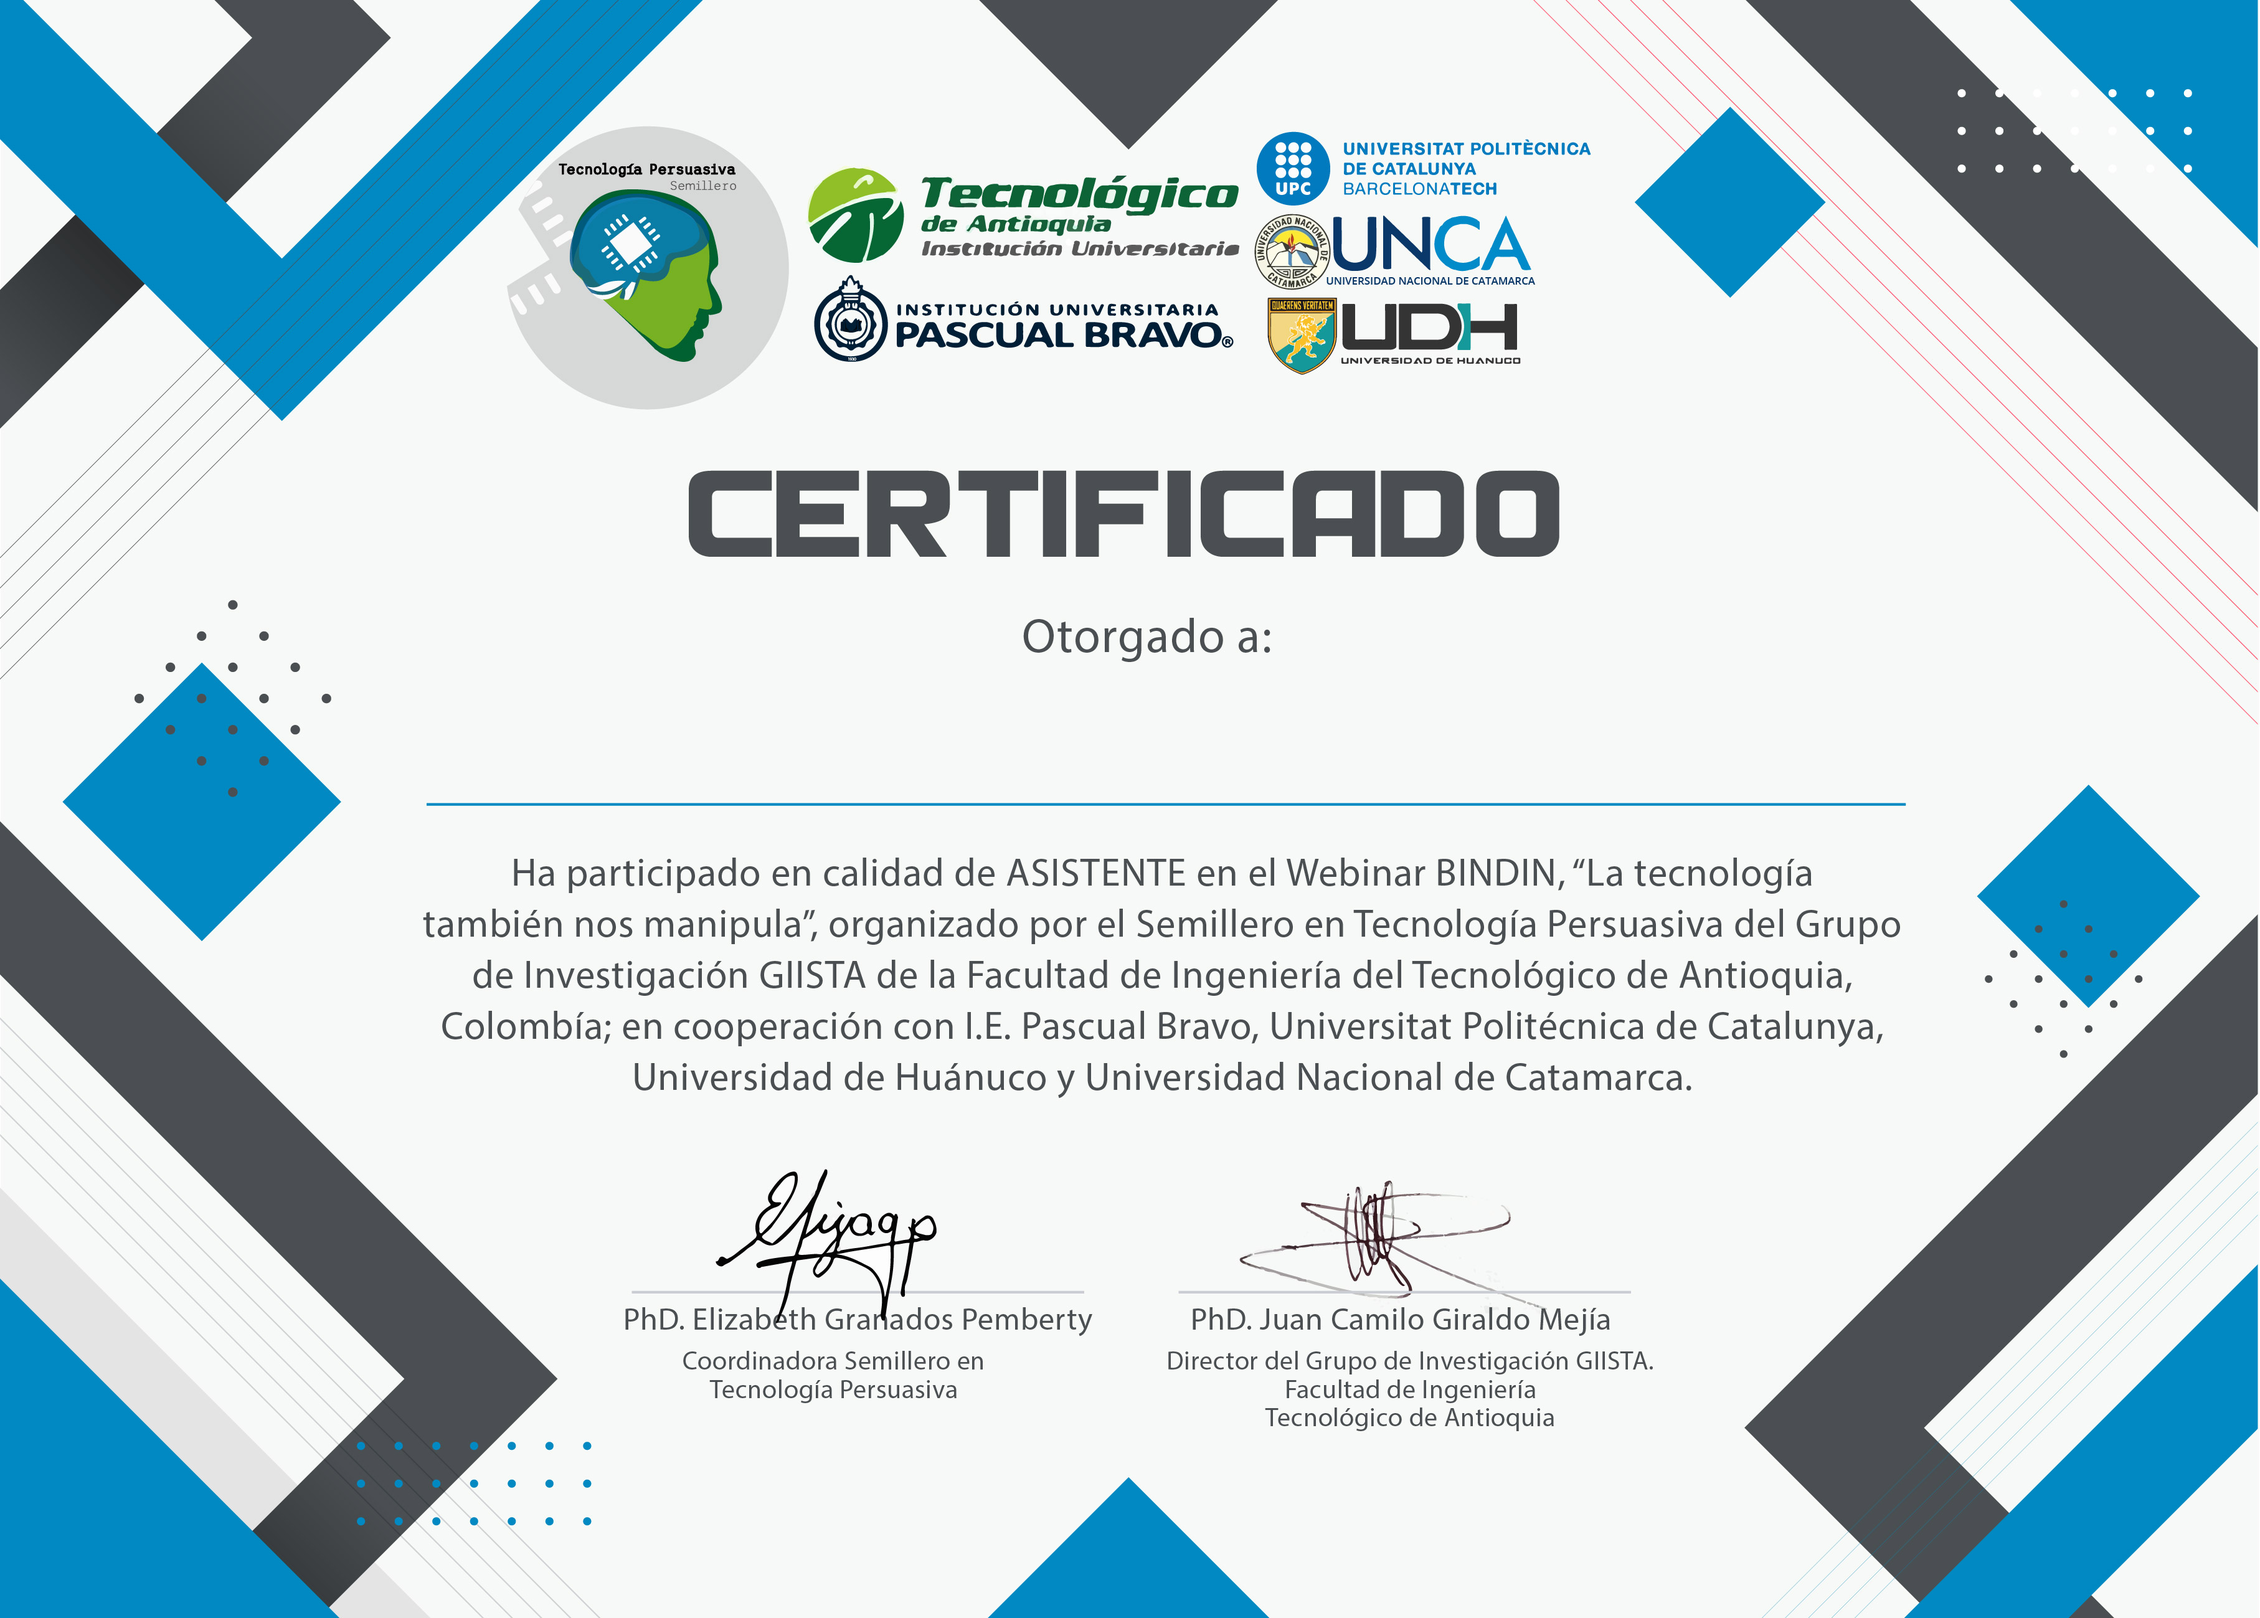
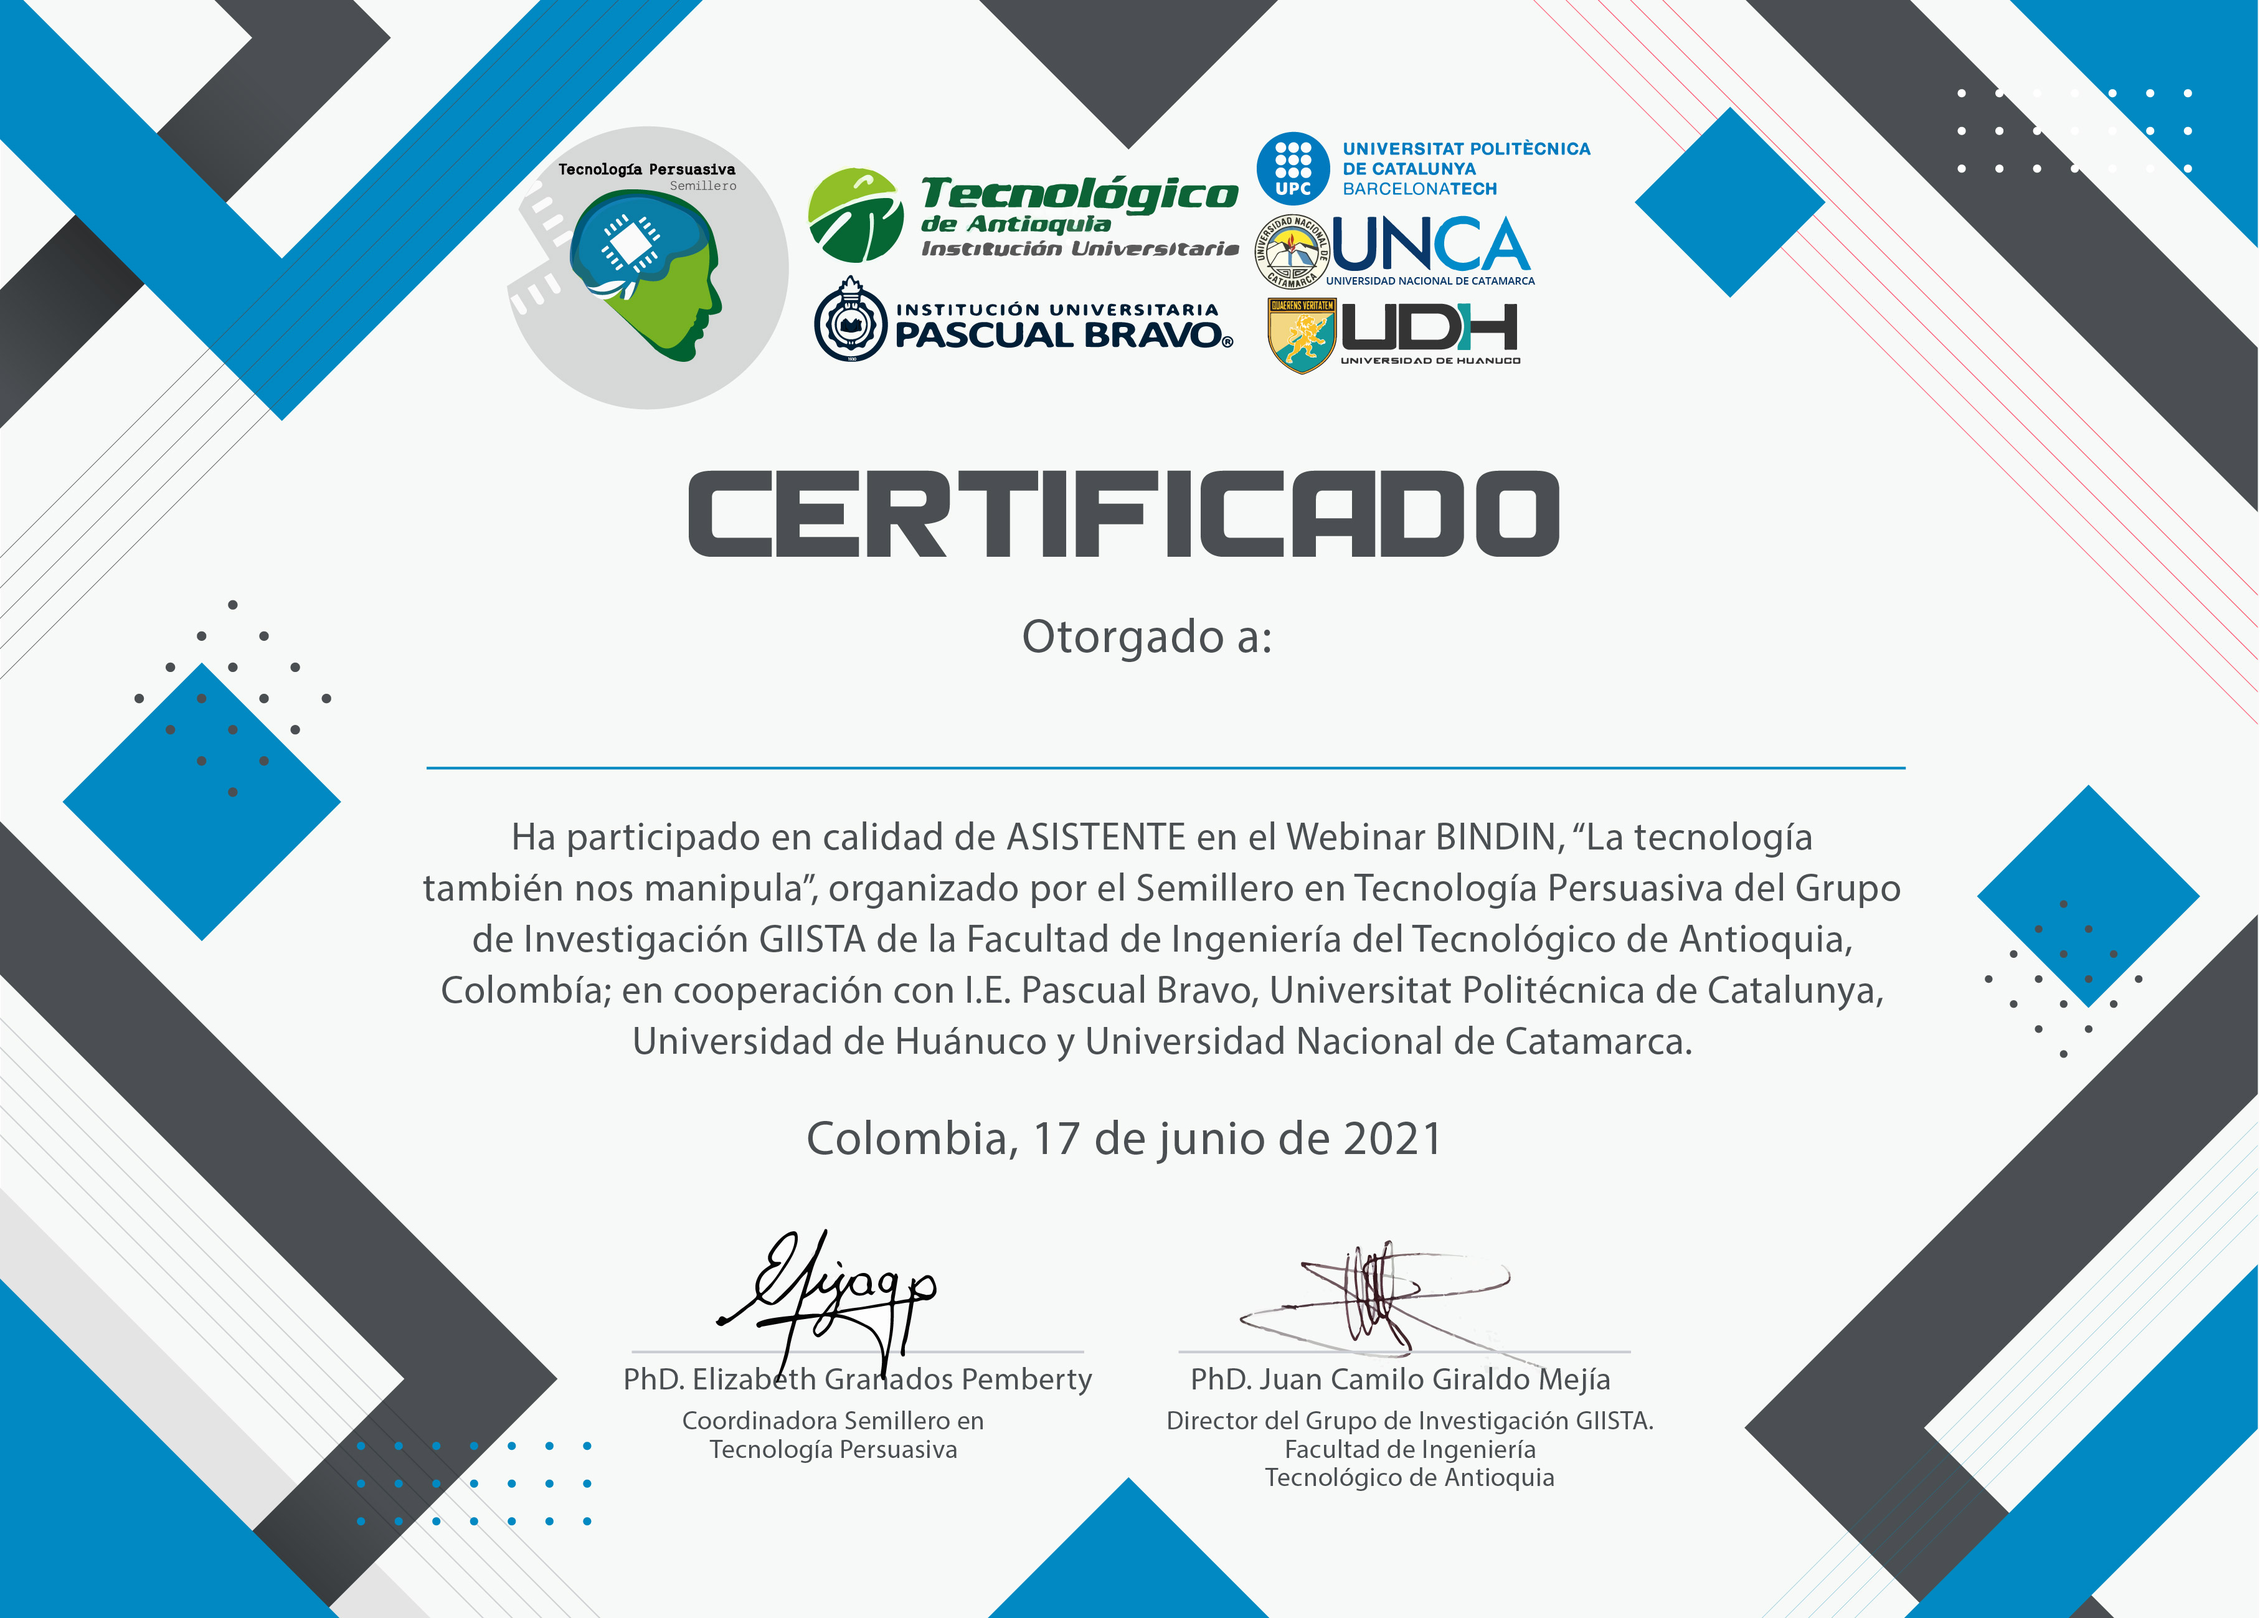
[7.07-07:57]

Changed region(s): [[0.1868, 0.4677, 0.8407, 0.9353]]

diff --git a/cert_gen/views.py b/cert_gen/views.py
@@ -615,7 +615,7 @@ def test_bindin(request):
             f'{settings.BASE_DIR}/staticfiles/images/certificado_bindin.jpg')
         nuevo = ImageDraw.Draw(certificado)
 
-        coordenadas = (925, 959)
+        coordenadas = (925, 900)
         color_texto = (0, 0, 0)
         tipo_letra = ImageFont.truetype(
             f'{settings.BASE_DIR}/staticfiles/fonts/bergamote.ttf', 400)
@@ -636,7 +636,7 @@ def test_bindin(request):
             f'{settings.BASE_DIR}/staticfiles/images/certificado_bindin.jpg')
         nuevo = ImageDraw.Draw(certificado)
 
-        coordenadas = (1056, 1023)
+        coordenadas = (1056, 990)
         color_texto = (0, 0, 0)
         tipo_letra = ImageFont.truetype(
             f'{settings.BASE_DIR}/staticfiles/fonts/bergamote.ttf', 300)
@@ -657,7 +657,7 @@ def test_bindin(request):
             f'{settings.BASE_DIR}/staticfiles/images/certificado_bindin.jpg')
         nuevo = ImageDraw.Draw(certificado)
 
-        coordenadas = (851, 1023)
+        coordenadas = (851, 990)
         color_texto = (0, 0, 0)
         tipo_letra = ImageFont.truetype(
             f'{settings.BASE_DIR}/staticfiles/fonts/bergamote.ttf', 300)
@@ -706,7 +706,7 @@ def test_bindin_org(request):
             f'{settings.BASE_DIR}/staticfiles/images/certificado_bindin_org.jpg')
         nuevo = ImageDraw.Draw(certificado)
 
-        coordenadas = (925, 959)
+        coordenadas = (925, 900)
         color_texto = (0, 0, 0)
         tipo_letra = ImageFont.truetype(
             f'{settings.BASE_DIR}/staticfiles/fonts/bergamote.ttf', 400)
@@ -727,7 +727,7 @@ def test_bindin_org(request):
             f'{settings.BASE_DIR}/staticfiles/images/certificado_bindin_org.jpg')
         nuevo = ImageDraw.Draw(certificado)
 
-        coordenadas = (1056, 1023)
+        coordenadas = (1056, 990)
         color_texto = (0, 0, 0)
         tipo_letra = ImageFont.truetype(
             f'{settings.BASE_DIR}/staticfiles/fonts/bergamote.ttf', 300)
@@ -748,7 +748,7 @@ def test_bindin_org(request):
             f'{settings.BASE_DIR}/staticfiles/images/certificado_bindin_org.jpg')
         nuevo = ImageDraw.Draw(certificado)
 
-        coordenadas = (851, 1023)
+        coordenadas = (851, 990)
         color_texto = (0, 0, 0)
         tipo_letra = ImageFont.truetype(
             f'{settings.BASE_DIR}/staticfiles/fonts/bergamote.ttf', 300)
